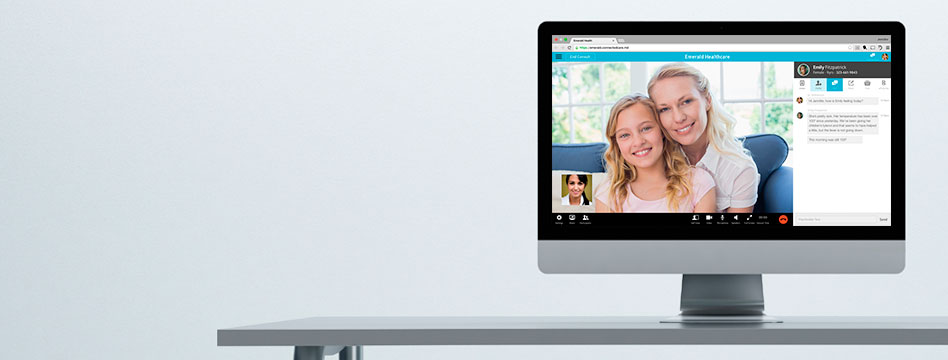
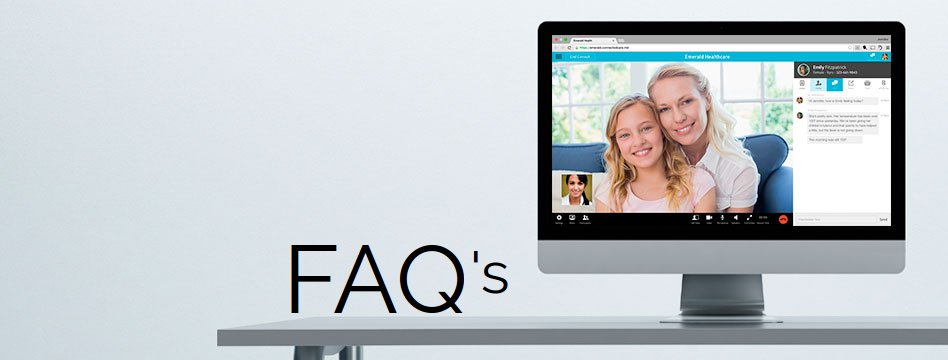
rid of slide animation. upgraded footer. contact in the front page

Changed region(s): [[0.3059, 0.6722, 0.5506, 0.8861], [0.5812, 0.0917, 0.9483, 0.1833], [0.8565, 0.2139, 0.8871, 0.2444]]

diff --git a/javascript/scroll-fade-in-faq.js b/javascript/scroll-fade-in-faq.js
@@ -2,7 +2,7 @@ $(document).ready(function() {
     $(window).scroll( function(){
         $('.hideme').each( function(i){
             var bottom_of_object = $(this).offset().top + $(this).outerHeight();
-            var bottom_of_window = $(window).scrollTop() + $(window).height() * (4/5);
+            var bottom_of_window = $(window).scrollTop() + $(window).height() * (9/10);
             if( bottom_of_window > bottom_of_object ){
                 $(this).animate({'opacity':'1'},500);
             }

diff --git a/stylesheets/custom.css b/stylesheets/custom.css
@@ -443,6 +443,24 @@ html{
   float: left;
   margin-bottom: 0;
 }
+
+.footer-items {
+  text-align:left;
+}
+
+.footer-items li {
+  list-style-type: none;
+}
+
+.footer-items a {
+  text-decoration: none;
+}
+
+.footer-items a:hover {
+  color:blue;
+}
+
+
 @media (max-width: 750px) {
    .footer-item {
     width: 100%;

diff --git a/modules/footer.php b/modules/footer.php
@@ -1,60 +1,38 @@
 <div class="footer">
-<!--   <div class="container align-middle">
-    <ul class="navbar-list">
-      <li class="navbar-item"><a class="navbar-link" href="/">Home</a></li>
-      <li class="navbar-item"><a class="navbar-link" href="/about.php">About Us</a></li>
-      <li class="navbar-item"><a class="navbar-link" href="/faq.php">FAQ</a></li>
-      <li class="navbar-item"><a class="navbar-link" href="/contact.php">Contact Us</a></li>
-    </ul>
-  </div> -->
   <div class="container">
-    <div class="row">
+    <div class="row footer-items">
 
       <div class="three columns">
-        <h4>BLAH</h4>
+        <h4>Site</h4>
         <ul>
-          <li>hello</li>
-          <li>world</li>
-          <li>hello</li>
-          <li>world</li>
-          <li>hello</li>
-          <li>world</li>
+          <li><a href="/">Home</a></li>
+          <li><a href="/about.php">About</a></li>
+          <li><a href="/faq.php">FAQ</a></li>
+          <li><a href="/contact.php">Contact</a></li>
         </ul>
       </div>
 
       <div class="three columns">
-        <h4>BLAH</h4>
+        <h4>Legals</h4>
         <ul>
-          <li>hello</li>
-          <li>world</li>
-          <li>hello</li>
-          <li>world</li>
-          <li>hello</li>
-          <li>world</li>
+          <li><a href="/">Terms</a></li>
+          <li><a href="/">Conditions</a></li>
         </ul>
       </div>
 
       <div class="three columns">
-        <h4>BLAH</h4>
+        <h4>Hours</h4>
         <ul>
-          <li>hello</li>
-          <li>world</li>
-          <li>hello</li>
-          <li>world</li>
-          <li>hello</li>
-          <li>world</li>
+          <li>Mon-Thurs: <b>10-8 (EST)</b></li>
+          <li>Fri-Sun: <b>9-5 (EST)</b></li>
+          <li>Closed on statutory holidays </li>
         </ul>
       </div>
 
       <div class="three columns">
         <ul>
-          <h4>BLAH</h4>
-          <li>hello</li>
-          <li>world</li>
-          <li>hello</li>
-          <li>world</li>
-          <li>hello</li>
-          <li>world</li>
+          <h4>Contact</h4>
+          <a href="mailto:admin@clickmd.ca">admin@clickmd.ca</a>
         </ul>
       </div>
     </div>

diff --git a/index.php b/index.php
@@ -85,6 +85,48 @@
     </a>
   </div>
 
+
+  <div class="section container">
+    <form action="/emailer.php" method="post" class="sendEmail">
+
+      <h2>Contact Us</h2>
+
+      <div class="row">
+        <div class="six columns">
+          <label>Your Name (required):</label><br>
+          <input class="send" type="text" name="name"/>
+        </div>
+        <div class="six columns">
+          <label>Your Email (required):</label><br>
+          <input class="send" type="email" name="email"/>
+        </div>
+      </div>
+
+      <div class="row">
+        <div class="twelve columns">
+          <label>Subject:</label><br>
+          <input class="send" type="text" name="subject" />
+        </div>
+      </div>
+      
+      <div class="row">
+        <div class="twelve columns">
+          <label>Your Message:</label><br>
+          <textarea class="send" name="message"></textarea>
+        </div>
+      </div>
+      
+       <div class="row">
+       <div class="six columns cancel">
+          <a class="button button-primary cancelBtn" href="/index.php">Cancel</a>
+        </div>
+        <div class="six columns sendBtn">
+          <input class="button-primary" type="submit" value="Send"/>
+        </div>
+      </div>
+    </form>
+  </div>
+
                 
 <?php include('modules/footer.php'); ?>
 

diff --git a/about.php b/about.php
@@ -12,7 +12,7 @@
 		    	<img class="home-slide animated fadeIn" src="/images/home-slide-4.jpg"/>
 
 			    <p class="section-description">
-				    clickMD is a new telemedicine company that offers online video conferencing service that connects patients with doctors in a timely and convenient manner. Our physicians are all fully licensed to practice in the province of Ontario. We provide services to residents of Ontario, who are in Ontario at the time of assessment and who have valid OHIP coverage. Sorry, we cannot see patients who are outside of Ontario at the time of assessment. Although patients require OHIP coverage to use clickMD, we do not bill OHIP for our services. Our fee is to cover the cost of bringing our service to you in a modern and convenient way.
+				    clickMD is a new telemedicine company that offers an online video conferencing service that connects patients with doctors in a timely and convenient manner. Our doctors are all fully licensed to practice in the province of Ontario. We provide services to residents of Ontario, who are in Ontario at the time of assessment and who have valid OHIP coverage.
 				</p>
 			    <img class="animated fadeIn" src="/images/sponsors.jpg"/>
 			    <p>

diff --git a/faq.php b/faq.php
@@ -9,14 +9,13 @@
     
     <div class="section faq-page">
       <div class="container">
-        <img class="logo animated slideInDown" src="/images/home-slide-2.jpg"/>
-        <h2 class="Section-heading">FAQ's</h2>
+        <img class="logo animated fadeIn" src="/images/home-slide-2.jpg" style="margin-bottom:100px"/>
 
         <h4 class ="questions">If I have a family doctor, will they mind if I use clickMD?</h4>
         <p>Unlike going to regular walk-in clinics, your doctor will not be penalized if you use clickMD.</p>
 
-        <h4 class ="questions hideme">How much does a consultation cost?</h4>
-        <p class="hideme">The cost for service is $59.00 per issue. You do not pay HST.</p>
+        <h4 class ="questions">How much does a consultation cost?</h4>
+        <p>The cost for service is $59.00 per issue. You do not pay HST.</p>
 
         <h4 class ="questions hideme">What types of problems can you help me with?</h4>
         <p class="hideme">Simple primary healthcare issues that do not require an in-depth physical examination in person. Examples could include colds, rashes, allergies, mild anxiety, childcare advice, second opinions on bloodwork, x-rays, etc...</p>

diff --git a/contact.php b/contact.php
@@ -14,14 +14,11 @@
             <h2>Contact Us</h2>
 
             <div class="row">
-              <div class="twelve columns">
+              <div class="six columns">
                 <label>Your Name (required):</label><br>
                 <input class="send" type="text" name="name"/>
               </div>
-            </div>
-
-            <div class="row">
-              <div class="twelve columns">
+              <div class="six columns">
                 <label>Your Email (required):</label><br>
                 <input class="send" type="email" name="email"/>
               </div>
